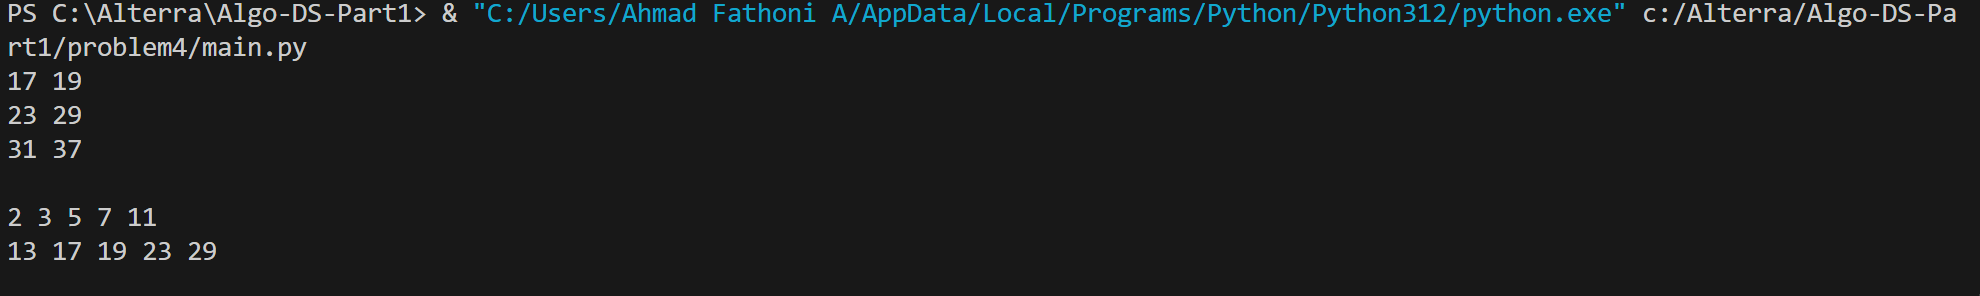
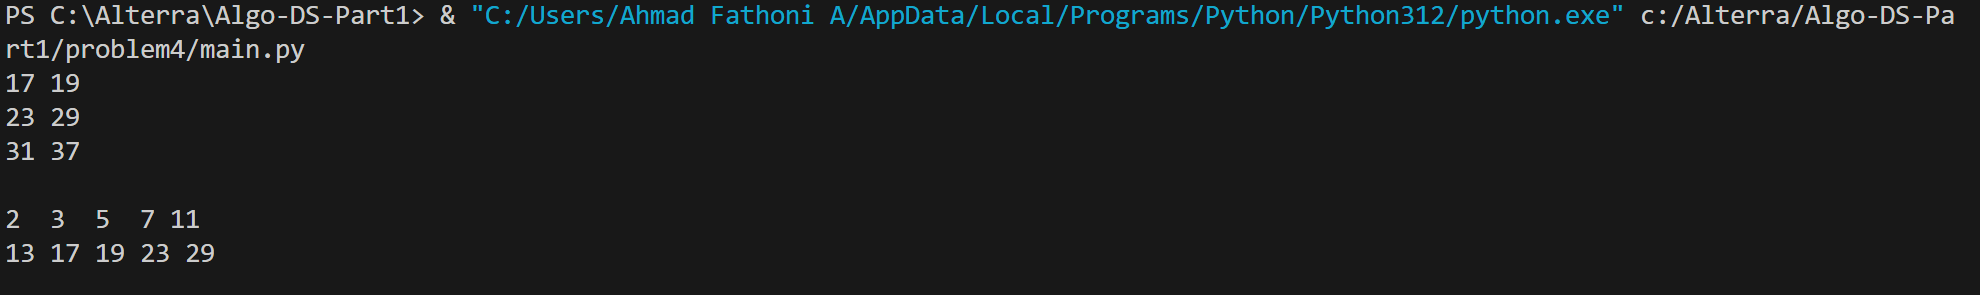
push

diff --git a/problem4/main.py b/problem4/main.py
@@ -9,13 +9,16 @@ def is_prime (number):
 def generate_primes_grid(width, height, start):
     inc = start + 1
     result = ""
+    prime_widht = 2
+
     for x in range (height):
         for y in range (width):
             while not is_prime(inc):
                 inc += 1
-            result += str(inc) + " "
+            result += str(inc).rjust(prime_widht) + " "
             inc += 1   
-        result = result.rstrip() + "\n"     
+        result = result.strip() + "\n"     
+        
     return result
 
 if __name__ == "__main__":
